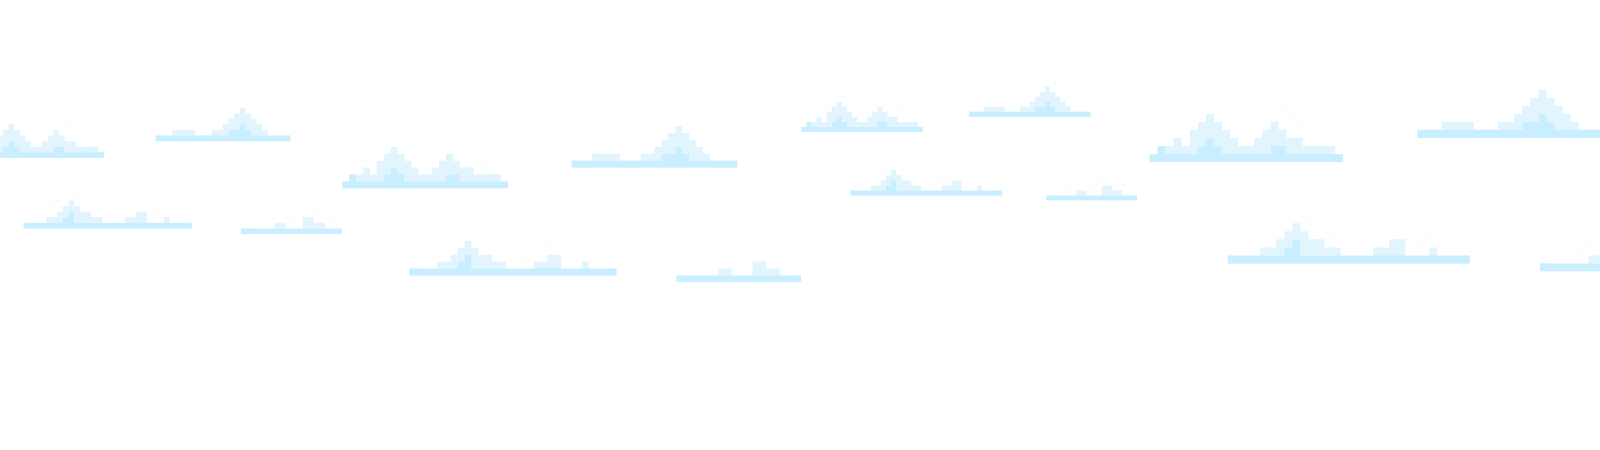
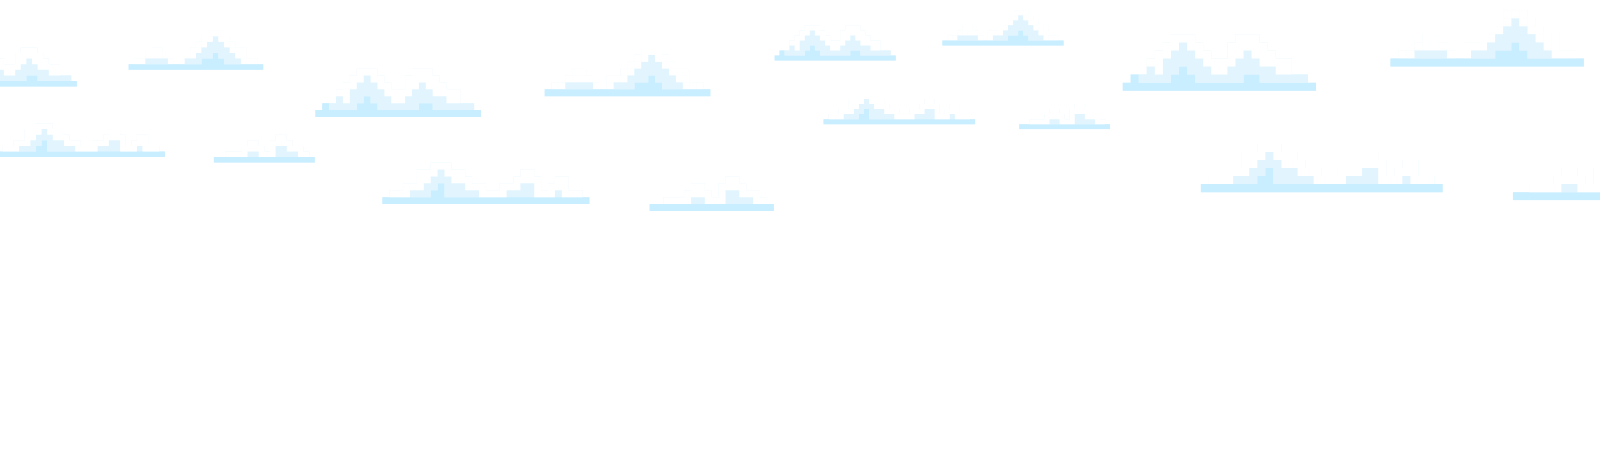
Ajuste no background

diff --git a/main.py b/main.py
@@ -19,7 +19,7 @@ screen = pygame.display.set_mode((LARGURA, ALTURA))
 pygame.display.set_caption("Plataforma Pygame")
 clock = pygame.time.Clock()
 
-background = ParallaxBackground("Background.png", 0.2, 0)
+background = ParallaxBackground("Background.png", speed=0, y_pos=0)
 clouds = ParallaxBackground("Nuvens.png", speed=0.2, y_pos=0, auto_scroll_speed=0.3)
 
 
@@ -136,21 +136,7 @@ def game():
         player.update(platforms)
         enemies.update()
 
-        player_dx = player.rect.x - player_prev_x
-        player_prev_x = player.rect.x
-
-        for plat in platforms:
-            plat.rect.x -= int(player_dx * 0.3)  
-    
-        for plat in platforms:
-            if plat.rect.right < 0:
-                plat.rect.left = LARGURA
-            elif plat.rect.left > LARGURA:
-                plat.rect.right = 0
-        
-
-        background.update(player_dx)
-        clouds.update(player_dx)
+        clouds.update(0)
 
         # Lógica da moeda com tempo entre uma e outra
         tempo_atual_moeda = pygame.time.get_ticks()
